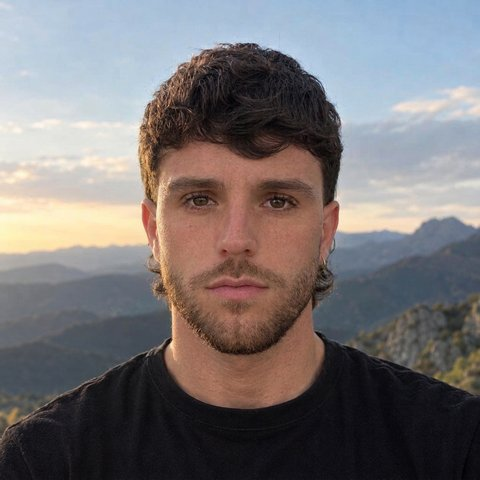
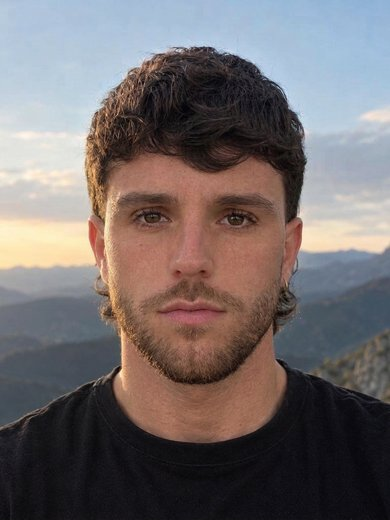
«Sobre AMART»: foto en vertical 3:4
Claude-Session: https://claude.ai/code/session_01KTw1zqDfkDPjeWUbcqzQiQ

diff --git a/src/marca/autor.ts b/src/marca/autor.ts
@@ -14,7 +14,7 @@ export const AUTOR = {
   /** Nombre de la persona: el saludo del diálogo. */
   persona: "Ángel",
   aplicacion: "Dermap",
-  /** Foto del autor (se muestra entera, en cuadrado). Vacía: sin foto. */
+  /** Foto del autor, en vertical 3:4. Vacía: sin foto. */
   foto: urlFoto as string,
   /** Web con el portafolio completo de aplicaciones y diseños (común a todas las aplicaciones). Vacía: el botón sale como «Próximamente». */
   web: "",

diff --git a/src/styles.css b/src/styles.css
@@ -2831,10 +2831,10 @@ button.firma:focus-visible {
   color: var(--primario-suave);
 }
 
-/* La foto entera, en cuadrado. */
+/* La foto en vertical (3:4): ocupa más alto junto al texto. */
 .foto-autor {
   width: 100%;
-  aspect-ratio: 1;
+  aspect-ratio: 3 / 4;
   object-fit: cover;
   border-radius: var(--radio-panel);
   border: 1px solid var(--borde);
